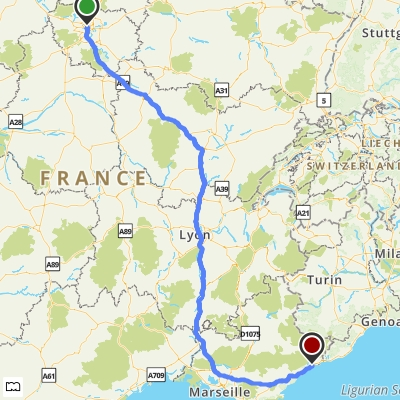
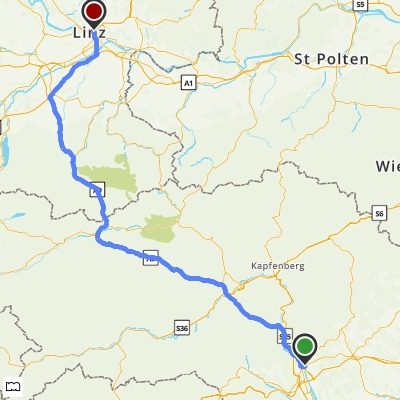
add event TOUR_SELECTED and the image updated when an item from the list is selected

diff --git a/src/main/java/at/technikum/tourplanner/view/ViewFactory.java b/src/main/java/at/technikum/tourplanner/view/ViewFactory.java
@@ -2,8 +2,10 @@ package at.technikum.tourplanner.view;
 
 import at.technikum.tourplanner.service.MapQuestRouteService;
 import at.technikum.tourplanner.service.RouteService;
+import at.technikum.tourplanner.service.SelectedTourService;
 import at.technikum.tourplanner.service.TourService;
 import at.technikum.tourplanner.viewModel.AddTourViewModel;
+import at.technikum.tourplanner.viewModel.TourDetailsViewModel;
 import at.technikum.tourplanner.viewModel.TourListViewModel;
 import at.technikum.tourplanner.data.HibernateSessionFactory;
 import at.technikum.tourplanner.event.EventAggregator;
@@ -17,7 +19,9 @@ public class ViewFactory {
     private final RouteService routeService;
     private final AddTourViewModel addTourViewModel;
     private final TourListViewModel tourListViewModel;
+    private final TourDetailsViewModel tourDetailsViewModel;
     private final TourService tourService;
+    private final SelectedTourService selectedTourService;
     private final HibernateSessionFactory sessionFactory;
 
     private ViewFactory() {
@@ -25,9 +29,11 @@ public class ViewFactory {
         sessionFactory = new HibernateSessionFactory();
         tourRepository = new TourRepository(sessionFactory, eventAggregator);
         tourService = new TourService(tourRepository);
+        selectedTourService = new SelectedTourService();
         routeService = new MapQuestRouteService();
         addTourViewModel = new AddTourViewModel(routeService, tourService);
-        tourListViewModel = new TourListViewModel(eventAggregator,tourService);
+        tourListViewModel = new TourListViewModel(eventAggregator,tourService, selectedTourService);
+        tourDetailsViewModel = new TourDetailsViewModel(eventAggregator,tourService, selectedTourService);
     }
 
     public Object create(Class<?> viewClass) {
@@ -41,7 +47,7 @@ public class ViewFactory {
             return new NavigationBarView();
         }
         if (viewClass == TourDetailsView.class) {
-            return new TourDetailsView();
+            return new TourDetailsView(tourDetailsViewModel);
         }
         if (viewClass == SearchBarView.class) {
             return new SearchBarView();

diff --git a/src/main/java/at/technikum/tourplanner/viewModel/TourDetailsViewModel.java b/src/main/java/at/technikum/tourplanner/viewModel/TourDetailsViewModel.java
@@ -1,5 +1,46 @@
 package at.technikum.tourplanner.viewModel;
 
+import at.technikum.tourplanner.event.Event;
+import at.technikum.tourplanner.event.EventAggregator;
+import at.technikum.tourplanner.service.SelectedTourService;
+import at.technikum.tourplanner.service.TourService;
+import at.technikum.tourplanner.view.TourDetailsView;
+import javafx.beans.property.ObjectProperty;
+import javafx.beans.property.SimpleObjectProperty;
+import javafx.beans.property.SimpleStringProperty;
+import javafx.beans.property.StringProperty;
+import javafx.scene.image.Image;
+
 public class TourDetailsViewModel {
 
+    private final EventAggregator eventAggregator;
+    private final TourService tourService;
+    private final SelectedTourService selectedTourService;
+
+    private final ObjectProperty<Image> mapview = new SimpleObjectProperty();
+
+    public ObjectProperty mapviewProperty() {return mapview;}
+    public TourDetailsViewModel(EventAggregator eventAggregator, TourService tourService, SelectedTourService selectedTourService) {
+        this.eventAggregator = eventAggregator;
+        this.tourService = tourService;
+        this.selectedTourService = selectedTourService;
+        eventAggregator.addSubscriber(Event.TOUR_SELECTED, this::updateMapView);
+    }
+
+    public void writeNotify(){
+        String tourName = selectedTourService.getTourName();
+        System.out.println("item "+tourName+" selected From ViewModel");
+    }
+
+    public void updateMapView() {
+        String selectedTourName = getSelectedTourName();
+        if (selectedTourName != null) {
+            String imagePath = "/at/technikum/tourplanner/maps/" + selectedTourName + ".jpg";
+            Image image = new Image(getClass().getResourceAsStream(imagePath));
+            mapview.set(image);
+        }
+    }
+    public String getSelectedTourName(){
+        return selectedTourService.getTourName();
+    }
 }

diff --git a/src/main/java/at/technikum/tourplanner/view/TourDetailsView.java b/src/main/java/at/technikum/tourplanner/view/TourDetailsView.java
@@ -1,22 +1,35 @@
 package at.technikum.tourplanner.view;
 
+import at.technikum.tourplanner.viewModel.TourDetailsViewModel;
+import javafx.beans.binding.Bindings;
 import javafx.fxml.FXML;
 import javafx.scene.image.Image;
 import javafx.scene.image.ImageView;
 
 public class TourDetailsView {
-    @FXML
-    private ImageView mapView;
 
     @FXML
-    private void reloadImage() {
-        try {
-            // Reload the image here
-            Image image = new Image(getClass().getResourceAsStream("/at/technikum/tourplanner/maps/map.jpg"));
-            //Image image = new Image("file:maps/map.jpg");
-            mapView.setImage(image);
-        } catch (Exception e) {
-            e.printStackTrace();
-        }
+    private ImageView mapView;
+    private final TourDetailsViewModel tourDetailsViewModel;
+
+    public TourDetailsView(TourDetailsViewModel tourDetailsViewModel) {
+        this.tourDetailsViewModel = tourDetailsViewModel;
     }
+
+    public void initialize() {
+        mapView.imageProperty().bindBidirectional(tourDetailsViewModel.mapviewProperty());
+    }
+    
+    public void getSelectedTourName() {
+        String name = tourDetailsViewModel.getSelectedTourName();
+        System.out.println("item "+name+" selected");
+    }
+    public ImageView getMapView() {
+        return mapView;
+    }
+
+    public void setMapView(ImageView mapView) {
+        this.mapView = mapView;
+    }
+
 }

diff --git a/src/main/java/at/technikum/tourplanner/viewModel/TourListViewModel.java b/src/main/java/at/technikum/tourplanner/viewModel/TourListViewModel.java
@@ -2,6 +2,7 @@ package at.technikum.tourplanner.viewModel;
 
 //import at.technikum.tourplanner.Model.TourRepository;
 import at.technikum.tourplanner.model.Tour;
+import at.technikum.tourplanner.service.SelectedTourService;
 import at.technikum.tourplanner.service.TourService;
 import at.technikum.tourplanner.event.Event;
 import at.technikum.tourplanner.event.EventAggregator;
@@ -14,10 +15,12 @@ public class TourListViewModel {
 
     private final EventAggregator eventAggregator;
     private final TourService tourService;
+    private final SelectedTourService selectedTourService;
 
-    public TourListViewModel(EventAggregator eventAggregator, TourService tourService) {
+    public TourListViewModel(EventAggregator eventAggregator, TourService tourService, SelectedTourService selectedTourService) {
         this.eventAggregator = eventAggregator;
         this.tourService = tourService;
+        this.selectedTourService=selectedTourService;
 
         tourListView.addAll(tourService.findAll());
 
@@ -39,6 +42,12 @@ public class TourListViewModel {
         }
 //        tourService.delete(tourName);
 //        tourListView.remove(tourName);
+    }
+
+    public void selectTourName(String tourName) {
+        selectedTourService.setTourName(tourName);
+        eventAggregator.publish(Event.TOUR_SELECTED);
+        System.out.println(tourName);
     }
 
     public ObservableList<String> getTourListView() {

diff --git a/src/test/java/at/technikum/tourplanner/viewmodel/TourListViewModelTest.java b/src/test/java/at/technikum/tourplanner/viewmodel/TourListViewModelTest.java
@@ -1,5 +1,6 @@
 package at.technikum.tourplanner.viewmodel;
 
+import at.technikum.tourplanner.service.SelectedTourService;
 import at.technikum.tourplanner.service.TourService;
 import at.technikum.tourplanner.viewModel.TourListViewModel;
 import at.technikum.tourplanner.event.EventAggregator;
@@ -20,6 +21,7 @@ public class TourListViewModelTest {
     EventAggregator eventAggregator;
     TourService tourService;
     TourListViewModel tourListViewModel;
+    SelectedTourService selectedTourService;
 
     @Test
     public void initialWTourListTest() {
@@ -34,7 +36,7 @@ public class TourListViewModelTest {
 
         // Act
         tourListViewModel = new TourListViewModel(
-                eventAggregator, tourService
+                eventAggregator, tourService, selectedTourService
         );
 
         // Assert

diff --git a/src/main/java/at/technikum/tourplanner/repository/TourRepository.java b/src/main/java/at/technikum/tourplanner/repository/TourRepository.java
@@ -42,13 +42,17 @@ public class TourRepository {
                 System.out.println("comm");
                 session.delete(tour);
                 session.getTransaction().commit();
-                eventAggregator.publish(Event.DELETE_TOUR);
+                eventAggregator.publish(Event.TOUR_DELETED);
             } else {
                 session.getTransaction().rollback();
                 // Handle case when the tour with the given name doesn't exist
                 // You can throw an exception, log an error, or handle it in any way you prefer.
             }
         }
+    }
+
+    public void selectTourName(String tourName){
+        eventAggregator.publish(Event.TOUR_SELECTED);
     }
     public List<Tour> findAll() {
         try (Session session = sessionFactory.openSession()) {

diff --git a/src/main/java/at/technikum/tourplanner/viewModel/AddTourViewModel.java b/src/main/java/at/technikum/tourplanner/viewModel/AddTourViewModel.java
@@ -78,7 +78,7 @@ public class AddTourViewModel {
         String routeInformation = "No informations yet";
 
         Route route = routeService.getRoute(from, to);
-        String imagePath = "src/main/resources/at/technikum/tourplanner/maps/map.jpg";
+        String imagePath = "src/main/resources/at/technikum/tourplanner/maps/"+name+".jpg";
         routeService.saveMap(route.getSessionId(), imagePath);
         time = route.getFormattedTime();
         distance = route.getDistance();

diff --git a/src/main/java/at/technikum/tourplanner/view/TourListView.java b/src/main/java/at/technikum/tourplanner/view/TourListView.java
@@ -59,4 +59,10 @@ public class TourListView {
         String selectedTourName = tourListView.getSelectionModel().getSelectedItem();
         tourListViewModel.deleteTour(selectedTourName);
     }
+
+    @FXML
+    public void selectTourName() {
+        String selectedTourName = tourListView.getSelectionModel().getSelectedItem();
+        tourListViewModel.selectTourName(selectedTourName);
+    }
 }

diff --git a/src/main/java/at/technikum/tourplanner/service/TourService.java b/src/main/java/at/technikum/tourplanner/service/TourService.java
@@ -28,7 +28,9 @@ public class TourService {
                 .map(Tour::getName)
                 .collect(Collectors.toList());
     }
-
+    public void selectTourName(String tourName) {
+        tourRepository.selectTourName(tourName);
+    }
     public Tour findById(Long id) {
         return tourRepository.findById(id);
     }

diff --git a/src/main/java/at/technikum/tourplanner/service/SelectedTourService.java b/src/main/java/at/technikum/tourplanner/service/SelectedTourService.java
@@ -1,0 +1,17 @@
+package at.technikum.tourplanner.service;
+
+public class SelectedTourService {
+    private String tourName;
+
+
+    public String getTourName() {
+        return tourName;
+    }
+
+    public void setTourName(String tourName) {
+        this.tourName = tourName;
+    }
+
+
+
+}

diff --git a/src/main/java/at/technikum/tourplanner/event/Event.java b/src/main/java/at/technikum/tourplanner/event/Event.java
@@ -3,6 +3,6 @@ package at.technikum.tourplanner.event;
 public enum Event {
 
     NEW_TOUR,
-
-    DELETE_TOUR
+    TOUR_DELETED,
+    TOUR_SELECTED
 }
